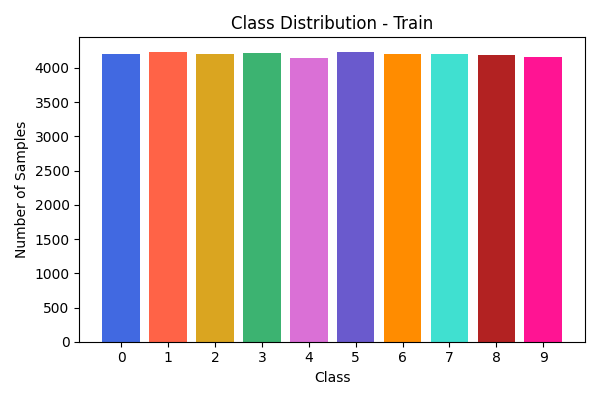
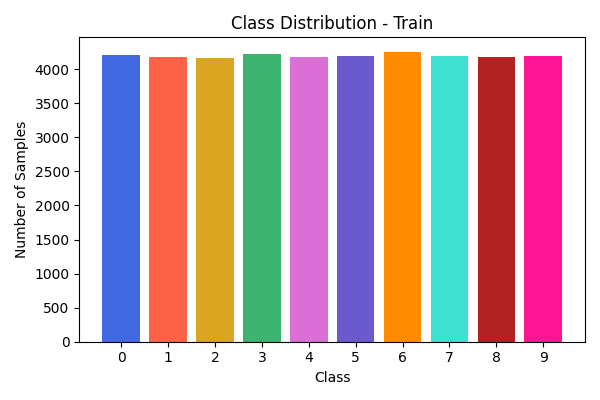
POOL SCENARIO

diff --git a/main.py b/main.py
@@ -45,102 +45,92 @@ def create_results_dir():
 
 
 def init_active_learning_pool(train_loader, val_loader, test_loader, seed):
-    #CREATE RESULTS DIR
+    # --- setup de diretórios e CSV ---
     results_path = create_results_dir()
     plots_path = os.path.join(results_path, "plots")
     os.makedirs(plots_path, exist_ok=True)
-    results_file_name = f"results_{seed}.csv"
-    results_csv_path = os.path.join(results_path, results_file_name)
-    if os.path.exists(results_csv_path): os.remove(results_csv_path)
+    results_file = f"results_{seed}.csv"
+    csv_path = os.path.join(results_path, results_file)
+    if os.path.exists(csv_path):
+        os.remove(csv_path)
 
-    # Obter x_train, y_train, x_val, y_val, x_test, y_test
+    # --- extrair dados dos loaders ---
     x_train, y_train = extract_data(train_loader)
-    x_val, y_val = extract_data(val_loader)
-    x_test, y_test = extract_data(test_loader)
+    x_val, y_val     = extract_data(val_loader)
+    x_test, y_test   = extract_data(test_loader)
 
-    torch.manual_seed(seed)  
-    indices = torch.randperm(len(x_train))  # Shuffle reprodutível
-    x_train = x_train[indices]
-    y_train = y_train[indices]
-    
-    x_init_train, x_rest_train, y_init_train, y_rest_train = train_test_split(x_train, y_train, train_size=INIT_TRAINING_PERCENTAGE, stratify=y_train, random_state=seed)
+    torch.manual_seed(seed)
+    # Embaralha o inicial
+    perm = torch.randperm(len(x_train))
+    x_train, y_train = x_train[perm], y_train[perm]
 
-    
-    plot_distribution_2(Counter(y_init_train.tolist()), "init_train", CLASS_COLORS, plots_path)
-    plot_distribution_2(Counter(y_rest_train.tolist()), "rest_train", CLASS_COLORS, plots_path)
+    # Split inicial e pool
+    x_init, x_pool, y_init, y_pool = train_test_split(
+        x_train, y_train,
+        train_size=INIT_TRAINING_PERCENTAGE,
+        stratify=y_train,
+        random_state=seed
+    )
 
+    # Visualiza distribuição inicial
+    plot_distribution_2(Counter(y_init.tolist()), "init_train", CLASS_COLORS, plots_path)
+    plot_distribution_2(Counter(y_pool.tolist()), "pool_train", CLASS_COLORS, plots_path)
+
+    # --- inicializa modelo e learner ---
     model = LeNet5(device=device, dataset=DATASET_IN_USE).to(device)
     learner = ActiveLearner(
-        estimator = model,
+        estimator=model,
         query_strategy=QUERY_STRATEGY_IN_USE,
-        X_training=x_init_train, y_training=y_init_train
+        X_training=x_init, y_training=y_init
     )
-    
-    init_results = learner.estimator.evaluate(x_val, y_val)    
-    write_metrics_to_csv(csv_path=results_path, csv_name=results_file_name, cycle=0, oracle_label=-1, ground_truth_label=-1, metrics=init_results)
-    
-    oracle = Committee(annotators=[], seed=seed)
 
+    # Avaliação inicial
+    init_metrics = learner.estimator.evaluate(x_val, y_val)
+    write_metrics_to_csv(results_path, results_file, cycle=0,
+                         oracle_label=-1, ground_truth_label=-1,
+                         metrics=init_metrics)
+
+    # --- loop de Active Learning em batch ---
     for cycle in range(NUM_CYCLES):
-        print("==========================")
-        print(f"Cycle {cycle + 1}/{NUM_CYCLES}")
+        print(f"========================\nCycle {cycle + 1}/{NUM_CYCLES}")
 
+        # Query por batch de instâncias
+        query_idx, query_instances = learner.query(x_pool, n_instances=POOL_SIZE)
 
-        x_query = []
-        y_query = []
-        oracle_labels = []
-        true_labels = []
-        for i in range(POOL_SIZE):
-            query_idx, query_instance = learner.query(x_rest_train)
-            query_image = x_rest_train[query_idx]
-            true_label = y_rest_train[query_idx]
+        # Seleciona imagens e rótulos verdadeiros
+        X_new = x_pool[query_idx]
+        y_new = y_pool[query_idx]
+        # transforma em tensor para teach
+        y_targets = torch.tensor(y_new.tolist(), device=device)
 
-            if ORACLE_ANSWER_IN_USE == ORACLE_ANSWER_REPUTATION:
-                continue
-            elif ORACLE_ANSWER_IN_USE == ORACLE_ANSWER_GROUND_TRUTH:
-                oracle_label = true_label.item()
-                target = oracle_label  # já como int
-            else:
-                oracle_label = oracle.random_answer()
-                target = oracle_label
+        # Ensina (re-treina) usando warm start ou full retrain
+        learner.teach(
+            X=X_new, y=y_targets,
+            only_new=False
+        )
+        print(f"learner DL size: {len(learner.y_training)}")
+        # Remove do pool as instâncias já rotuladas
+        x_pool = np.delete(x_pool, query_idx, axis=0)
+        y_pool = np.delete(y_pool, query_idx, axis=0)
 
-            # Se ainda for tensor, converter para numpy
-            if isinstance(query_image, torch.Tensor):
-                query_image = query_image.numpy()
-
-            x_query.append(query_image)
-            y_query.append(target)
-
-            x_rest_train = np.delete(x_rest_train, query_idx, axis=0)
-            y_rest_train = np.delete(y_rest_train, query_idx, axis=0)
-
-            oracle_labels.append(oracle_label)
-            true_labels.append(true_label.item())
-
-        # Depois do loop:
-        x_query = np.array(x_query)
-        y_query = np.array(y_query)
-
-        learner.teach(X=x_query, y=y_query)
-        print("learner y size: " + len(learner.y_training))
-    
-        if(cycle + 1 == NUM_CYCLES):
-            print("FINAL CYCLE")
-            metrics = learner.estimator.evaluate(x_test, y_test)    
+        # Avalia no validation ou test
+        if cycle + 1 == NUM_CYCLES:
+            metrics = learner.estimator.evaluate(x_test, y_test)
         else:
-            metrics = learner.estimator.evaluate(x_val, y_val)    
+            metrics = learner.estimator.evaluate(x_val, y_val)
 
-        print(f"AVG Accuracy: {avg_metric(metrics, 'accuracy_per_class'):.4f} | AVG Precision: {avg_metric(metrics, 'precision_per_class'):.4f}")
+        print(f"   AVG Acc: {avg_metric(metrics, 'accuracy_per_class'):.4f}\n"+
+              f"   AVG Precision: {avg_metric(metrics, 'precision_per_class'):.4f}")
 
-        write_metrics_to_csv(csv_path=results_path, csv_name=results_file_name, cycle=cycle+1, oracle_label=oracle_labels, ground_truth_label=true_labels, metrics=metrics)
-    
-    
-    csv_path = os.path.join(results_path, results_file_name)
-    plot_all_metrics_over_cycles(csv_path=csv_path, plot_path=plots_path, seed=seed)
-    
+        write_metrics_to_csv(results_path, results_file,
+                             cycle=cycle+1,
+                             oracle_label=-1,  # se usar oracle diferente, modifique aqui
+                             ground_truth_label=-1,
+                             metrics=metrics)
 
-    print("DONE! for seed: ", seed) 
-
+    # --- pós-processamento ---
+    plot_all_metrics_over_cycles(csv_path, plots_path, seed)
+    print("Done for seed:", seed)
 
 
 def init_active_learning(train_loader, val_loader, test_loader, seed):
@@ -236,7 +226,7 @@ def init_perm_statistic(train_loader, val_loader, test_loader):
         print(f"Running on seed: {seed}")
         
         # Inicializar o modelo e o ciclo de aprendizado ativo
-        init_active_learning(train_loader=train_loader, val_loader=val_loader, test_loader=test_loader, seed=seed)
+        init_active_learning_pool(train_loader=train_loader, val_loader=val_loader, test_loader=test_loader, seed=seed)
 
 def init_perm_oracle_answer(train_loader, val_loader, test_loader):
     global ORACLE_ANSWER_IN_USE

diff --git a/env.py b/env.py
@@ -17,10 +17,14 @@ DATA_AUG_NOISE_FACTOR = 0.5
 
 ### LEARNER CONFIGURATION ###
 INIT_TRAINING_PERCENTAGE = 0.10
-INIT_EPHOCS = 50
 LEARNING_RATE = 0.002
 EPHOCS = 10
 BATCH_SIZE = 512
+
+NUM_CYCLES = 300
+NUM_ANNOTATORS = 30
+POOL_SIZE = 128
+CLASSES = [0, 1, 2, 3, 4, 5, 6, 7, 8, 9]
 
 
 UNCERTAINTY_SAMPLING = uncertainty_sampling 
@@ -34,10 +38,7 @@ MODELS= os.path.join(BASE_DIR, "models")
 
 
 ## Active Learning Configuration
-CLASSES = [0, 1, 2, 3, 4, 5, 6, 7, 8, 9]
-NUM_CYCLES = 50
-NUM_ANNOTATORS = 30
-POOL_SIZE = 16
+
 
 
 
